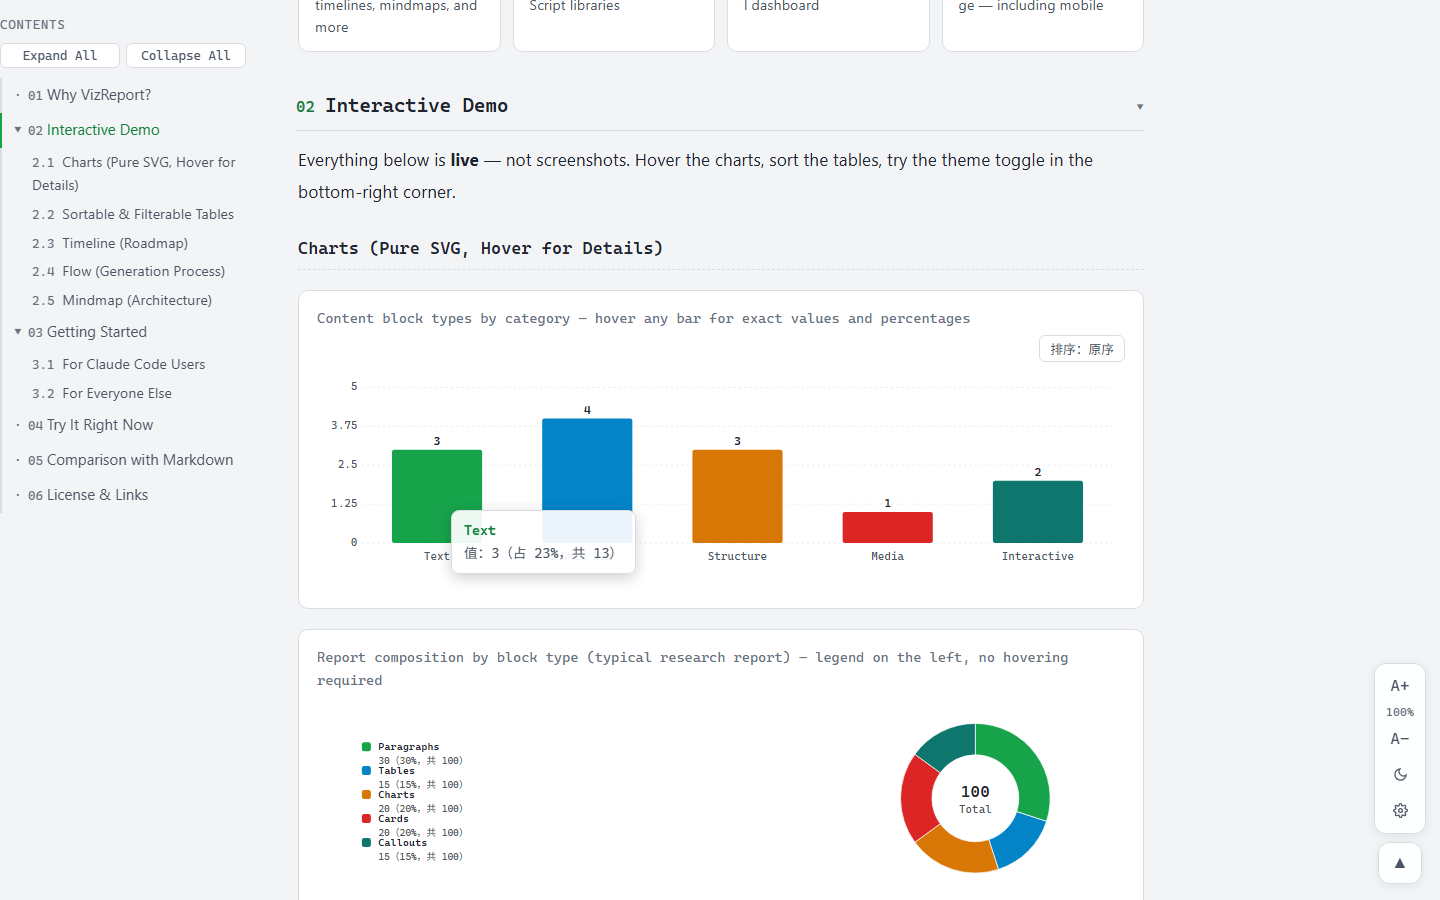
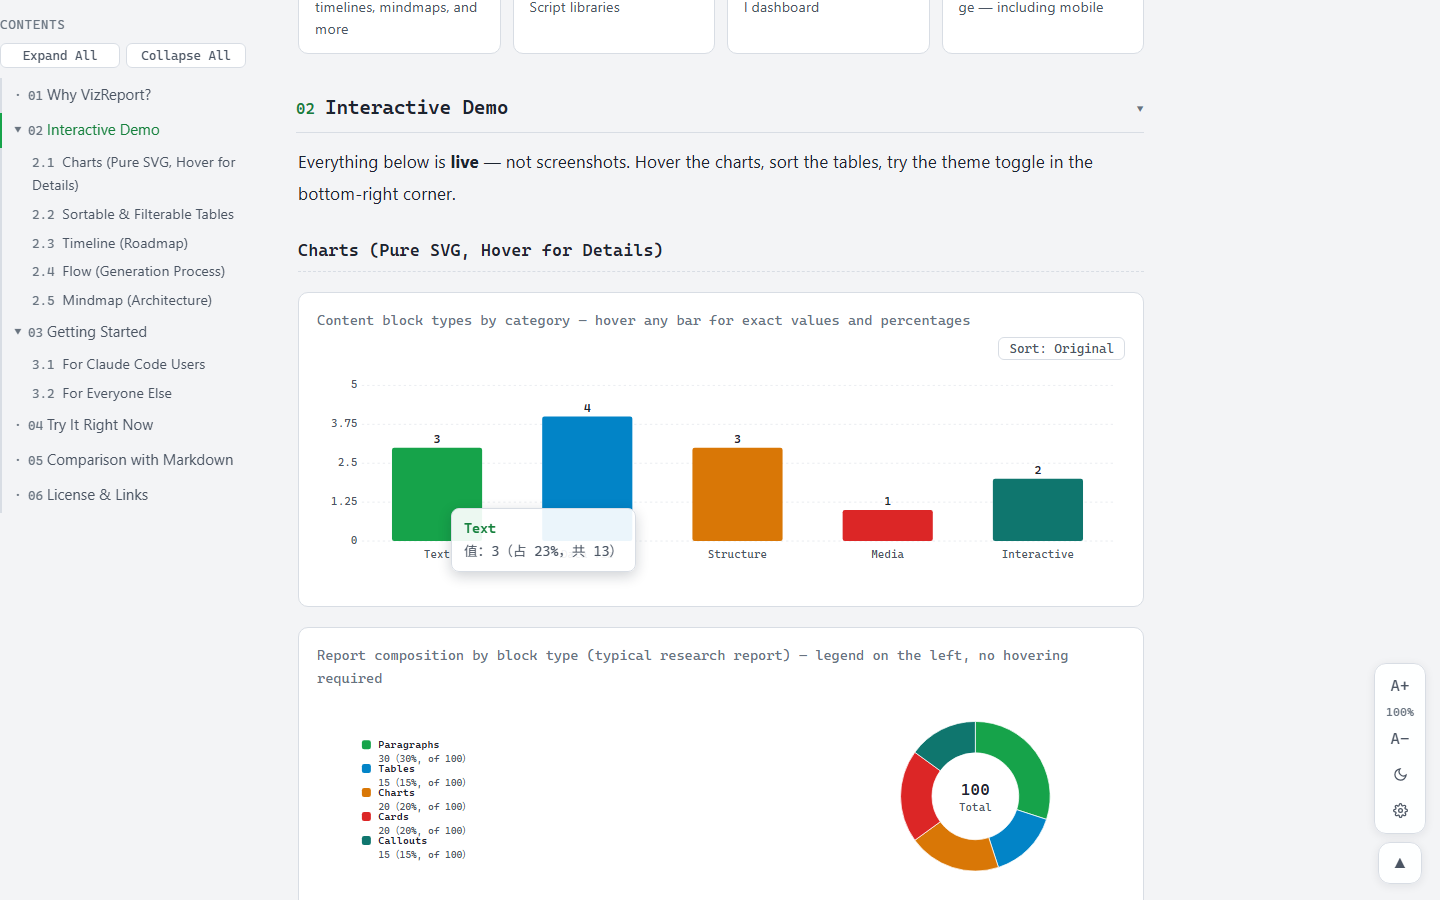
Complete i18n: MutationObserver for dynamic content, language toggle button, Chinese README with images, chart sort/table captions translated, donut 'of' pattern

diff --git a/docs/index.html b/docs/index.html
@@ -1481,7 +1481,21 @@ footer .fmeta{display:flex;flex-wrap:wrap;gap:8px;margin-top:14px}
   // I18N ENGINE v2: comprehensive post-render language swap
   // Runs AFTER all rendering. Handles every Chinese UI string.
   // ═════════════════════════════════════════════════════════
-  var IS_EN = (meta.lang === 'en') || (!meta.lang && (navigator.language || '').toLowerCase().indexOf('zh') < 0);
+  var IS_EN = (localStorage.getItem('vizreport-lang') === 'en') || (!localStorage.getItem('vizreport-lang') && (meta.lang === 'en' || (!meta.lang && (navigator.language || '').toLowerCase().indexOf('zh') < 0)));
+  // Language toggle button (top-right, next to related links)
+  (function addLangToggle() {
+    var toggle = document.createElement('button');
+    toggle.type = 'button';
+    toggle.style.cssText = 'font-family:var(--mono);font-size:.82rem;color:var(--cyan-hi);background:var(--cyan-soft);border:1px solid var(--border);border-radius:7px;padding:5px 12px;cursor:pointer;margin-left:8px;transition:color .15s,border-color .15s';
+    toggle.textContent = IS_EN ? '中文' : 'EN';
+    toggle.title = IS_EN ? '切换到中文' : 'Switch to English';
+    toggle.addEventListener('click', function() {
+      localStorage.setItem('vizreport-lang', IS_EN ? 'zh' : 'en');
+      location.reload();
+    });
+    var badgeRow = document.getElementById('metaBadges');
+    if (badgeRow) badgeRow.appendChild(toggle);
+  })();
   if (IS_EN) {
     // 1) Walk every text node and replace
     (function walkAll(root) {
@@ -1539,8 +1553,20 @@ footer .fmeta{display:flex;flex-wrap:wrap;gap:8px;margin-top:14px}
           [/（链接已拦截：(.*)）/, '(Link blocked: $1)'],
           [/：按值筛选/, ': Filter by value'],
           [/（占\s*(\d+)%，共\s*([\d,]+)）/, ' ($1% of $2)'],
+          [/，共\s*([\d,]+)/g, ', of $1'],
           [/值：\s*([\d,]+)/, 'Value: $1'],
-          [/偏好经浏览器\s*localStorage\s*全局保存.*$/, 'Preferences saved via localStorage (shared across pages).']
+          [/偏好经浏览器\s*localStorage\s*全局保存.*$/, 'Preferences saved via localStorage (shared across pages).'],
+          [/（点表头排序.*?）/g, ''],
+          [/排序：原序/, 'Sort: Original'],
+          [/排序：降序/, 'Sort: Descending'],
+          [/排序：升序/, 'Sort: Ascending'],
+          [/^排序：/, 'Sort: '],
+          [/原序/, 'Original'],
+          [/降序(?!\s)/, 'Descending'],
+          [/升序(?!\s)/, 'Ascending'],
+          [/阶段\s*(\d+)/, 'Stage $1'],
+          [/（空）/, '(empty)'],
+          [/主题/, 'Theme']
         ];
         for (var p = 0; p < patterns.length; p++) {
           var newT = t.replace(patterns[p][0], patterns[p][1]);
@@ -1590,6 +1616,36 @@ footer .fmeta{display:flex;flex-wrap:wrap;gap:8px;margin-top:14px}
 
     // 5) Update html lang
     document.documentElement.setAttribute('lang', 'en');
+    // 6) MutationObserver: re-translate dynamically added/changed text
+    var _i18nBusy = false;
+    var _i18nObs = new MutationObserver(function(muts) {
+      if (_i18nBusy) return;
+      _i18nBusy = true;
+      muts.forEach(function(m) {
+        if (m.addedNodes) {
+          m.addedNodes.forEach(function(nd) {
+            if (nd.nodeType === 3) {
+              var t = nd.textContent;
+              for (var pi = 0; pi < patterns.length; pi++) {
+                var nt = t.replace(patterns[pi][0], patterns[pi][1]);
+                if (nt !== t) { nd.textContent = nt; break; }
+              }
+              if (map[nd.textContent.trim()]) nd.textContent = map[nd.textContent.trim()];
+            } else if (nd.nodeType === 1) {
+              nd.querySelectorAll('*').forEach(function(el) {
+                var t2 = el.textContent;
+                for (var pj = 0; pj < patterns.length; pj++) {
+                  var nt2 = t2.replace(patterns[pj][0], patterns[pj][1]);
+                  if (nt2 !== t2) { el.textContent = nt2; break; }
+                }
+              });
+            }
+          });
+        }
+      });
+      _i18nBusy = false;
+    });
+    _i18nObs.observe(document.body, { childList: true, subtree: true, characterData: true });
   }
 
   // ── 回顶 ──

diff --git a/README.zh-CN.md b/README.zh-CN.md
@@ -1,23 +1,30 @@
-# VizReport
+<p align="center">
+  <img src="docs/assets/social-preview.png" alt="VizReport" width="100%">
+</p>
 
-**单文件·零依赖·富交互报告生成器**
+<h1 align="center">VizReport</h1>
 
-> [English](README.md) | [在线演示](https://magicalyuyu.github.io/vizreport/)
+<p align="center"><strong>富交互报告。单文件。零依赖。</strong></p>
+
+<p align="center"><sub><a href="README.md">English</a> · <a href="https://magicalyuyu.github.io/vizreport/">在线演示</a></sub></p>
+
+---
 
 ## 为什么需要 VizReport？
 
-AI Agent 产出的调研报告通常是 Markdown——大段纯文本、无图表、无排序、无导航。读到第五份的时候，眼睛已经花了。
+AI Agent 产出的调研报告通常是 Markdown——大段纯文本，读到第五份时眼睛已经花了。
 
-VizReport 解决两个问题：
-
-- **可视化**：柱状图/折线图/圆环图（纯 SVG 零依赖，悬停显示详情）、可排序筛选的表格、时间线、流程图、思维导图
-- **交互性**：粘滞目录、章节折叠、主题切换、字号调节、宽度滑条——读者的每一次操作都是即时的
+- **可视化差距**：Markdown 只能渲染纯文本段落，数字混作一团，趋势不可见
+- **交互差距**：不能排序、不能筛选、不能折叠不需要的章节、不能调整字号
+- **分享摩擦**：发送 `.md` 文件对方需要渲染器；发送 VizReport 对方双击就能打开
 
 ## 效果
 
-所有功能可以直接在[在线演示](https://magicalyuyu.github.io/vizreport/)中体验——那个页面本身就是一份 VizReport 报告。
+![VizReport 演示](docs/assets/demo.gif)
 
-## 安装
+![VizReport 功能](docs/assets/screenshot-features.png)
+
+## 快速开始
 
 ```bash
 npx skills add MagicalYuYu/vizreport
@@ -27,11 +34,24 @@ npx skills add MagicalYuYu/vizreport
 
 也可以手动使用：下载 `templates/` 里的模板，修改 JSON 数据岛，浏览器打开。
 
+## 内容块类型
+
+VizReport 支持十三种内容块：
+
+| 类别 | 内容块 |
+|------|--------|
+| 文本 | 标题（两级）、段落（加粗/代码/链接）、列表、引文 |
+| 数据 | 统计卡、图表（柱状/条形/折线/圆环）、表格 |
+| 视觉 | 时间线、流程图、思维导图 |
+| 媒体 | 图片（带图注）、提示框 |
+
+所有图表为内联 SVG，零外部依赖。所有表格开箱即用支持排序和筛选。
+
 ## 与 Markdown 的区别
 
 | 方面 | Markdown | VizReport |
 |------|----------|-----------|
-| 图表 | 原生不支持 | 交互式 SVG（悬停显示数值与占比） |
+| 图表 | 原生不支持 | 交互式 SVG，悬停显示详情 |
 | 表格 | 静态，不可排序 | 三态排序 + 行筛选 + 列筛选 |
 | 导航 | 只能滚动 | 粘滞目录 + 可折叠章节 |
 | 主题 | 依赖阅读器 | 亮色/暗色切换，跨文件记忆 |
